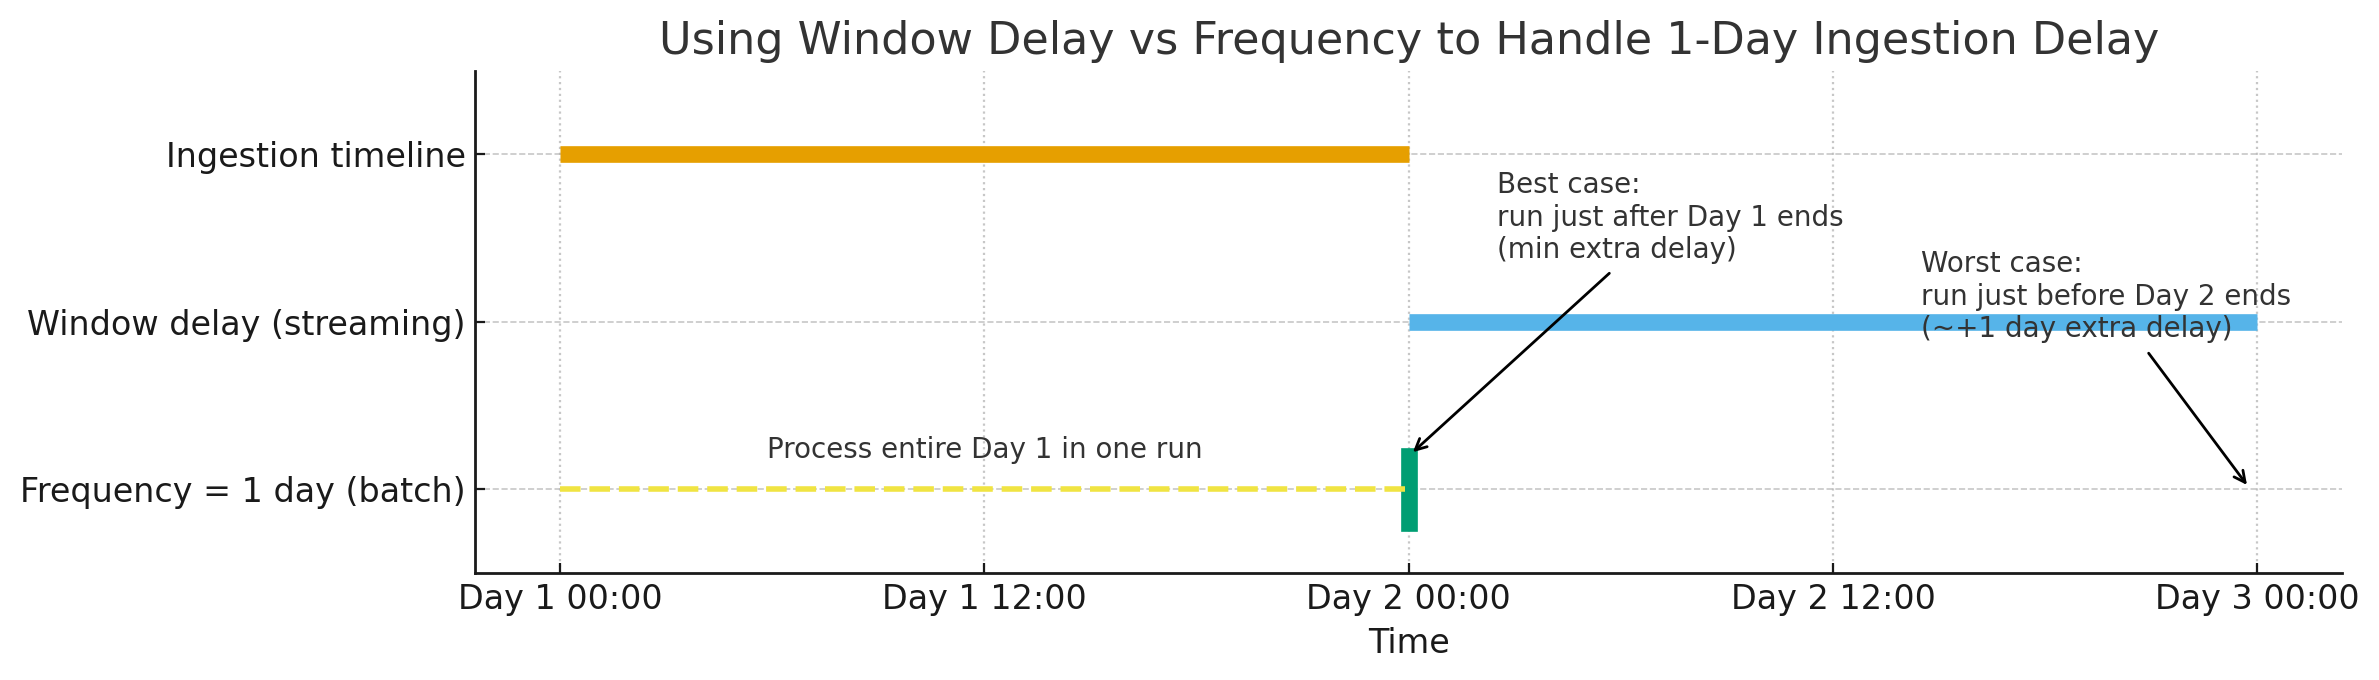
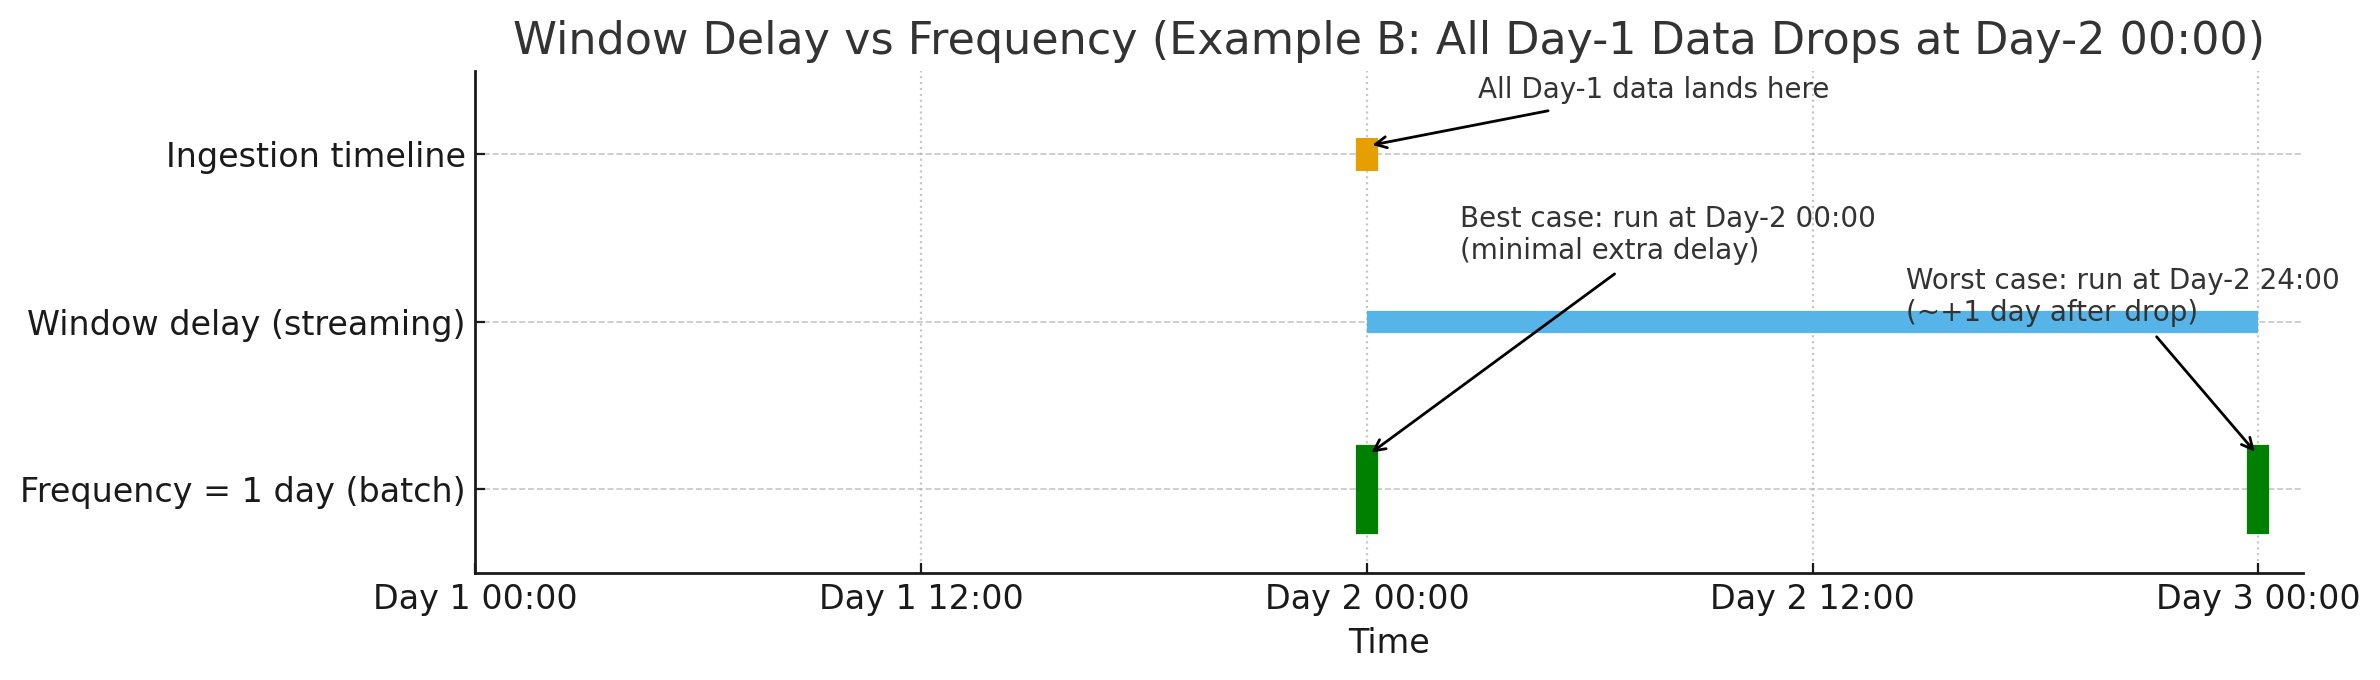
Improve content

diff --git a/_observing-your-data/ad/index.md b/_observing-your-data/ad/index.md
@@ -229,11 +229,11 @@ If you're unsure, leave this field blank---the job will use the interval value b
 
 **Common scenarios for using a larger frequency than the interval include:**
 
-1. **Batching short buckets for efficiency**: In high-frequency or high-volume log streams where ultra-fast alerting isn't necessary. For example, if your job uses a 1–2 minute data interval to capture fine-grained log trends, processing every 1–2 minutes can be resource-intensive. Setting the frequency to 5 minutes allows the detector to fetch and process multiple intervals' worth of data in one batch (for example, five 1-minute buckets at once).
+1. **Batching short buckets for efficiency**: In high-frequency or high-volume log streams where ultra-fast alerting isn’t necessary. For workloads with heavy joins or high-cardinality features, or for compliance-driven nightly rollups that require an **immutable daily anomaly ledger** for reviews/audits, running every 1–2 minutes can be wasteful. Instead, schedule the detector to run less frequently so it batches many short intervals in one pass (e.g., **6 hours** *as an example*, which would process ~**360** 1-minute buckets at once). Pick an frequency that fits your alerting latency and cost goals (e.g., 30 min, 1 hr, 3 hrs, 6 hrs, 12 hrs).
 
-   - **Benefits**: Reduced scheduling overhead and better resource utilization, especially when running many jobs or working with busy clusters
-   - **Trade-offs**: Increased detection delay: an anomaly that occurs in a 1-minute bucket might only be reported when the 5-minute query runs
-   - **Best for**: Trend analysis or offline log analytics where near-real-time alerting isn't required
+  - **Benefits**: Reduced scheduling overhead and better resource utilization, especially when running many jobs or working with busy clusters
+  - **Trade-offs**: Increased detection delay—an anomaly in a 1-minute bucket may only be reported when the batch run executes
+  - **Best for**: Cost & load control and compliance & audit, etc.
 
 2. **Aligning with infrequent or batch log ingestion**: When logs arrive irregularly or in batches (for example, once per day from S3, or IoT devices that upload in bursts). Running the detector every minute would mostly yield empty results and wasted cycles. Configure the frequency closer to the data arrival rate (for example, one day) so each search is more likely to find new data. When timestamps are irregular and low-volume (as is common with sporadic logs), interim results tend to be harmful to accuracy as our RCF model is stateful and assumes strict ascending order of timestamps. By using a less frequent schedule, you effectively let the job wait for complete data rather than repeatedly checking an empty index.
 
@@ -264,16 +264,37 @@ Sets the number of historical data points used to train the initial (cold-start)
 
 ##### Choosing between frequency and window delay
 
-Both frequency and window delay address ingestion delay but work better for different data patterns:
+Both **frequency** and **window delay** address ingestion delay but work better for different data patterns:
 
-- **Window delay**: Best for streaming data (continuous trickle)
-- **Frequency**: Best for batch data (periodic drops)
+- **Window delay**: Best for streaming data (continuous trickle).
+- **Frequency**: Best for batch data (periodic drops).
 
 **Example scenarios:**
-- **1-day delay with streaming data**: Set window delay = 1 day to process Day-1 minute buckets during Day-2 as they arrive (low per-bucket latency, continuous compute)
-- **Daily batch ingestion**: Set frequency = 1 day to process all of Day-1 in a single run (lower query/inference overhead)
 
-The following diagram illustrates the timing differences between using window delay compared to using frequency to handle a 1-day ingestion delay. The timeline shows Day-1 ingestion (top), Day-2 processing with window delay = 1 day (middle, continuous band), and a single daily run when frequency = 1 day (bottom, vertical bar). Depending on when you start the detector, a daily frequency can fire just after Day-1 ends (best case, minimal extra delay) or much later (worst case, up to ~+1 day). The job runs every day at approximately the time you first started it.
+**Example A — Data arrives every minute, but always 1 day late → use window delay.**
+- **Pattern**: Day-1’s `00:01, 00:02, …, 23:59` arrive steadily, but only on **Day-2** at the matching minutes.
+- **Config**: `interval = 1 min`, `window_delay = 1 day`, **frequency = 1 min**.
+- **Effect**:
+  - Day-2 00:01 run processes **Day-1 00:01**.
+  - Day-2 00:02 run processes **Day-1 00:02**.
+  - …
+  - Day-2 23:59 run processes **Day-1 23:59**.
+- **Why this fits**: Each minute arrives on a predictable 24-hour delay; a window delay neatly aligns processing with the intended timestamp while keeping the workload incremental.
+
+---
+
+**Example B — All of Day-1’s data lands at Day-2 00:00 → use daily frequency.**
+- **Pattern**: No data during Day-1; a single batch with **all 1,440 minutes** appears at **Day-2 00:00**.
+- **Config**: `interval = 1 min`, **`frequency = 1 day`** (batch the whole day at once).
+  *(Tip: add a small `window_delay`—e.g., 1–5 minutes—for indexing/refresh lag.)*
+- **Effect** (daily run occurs ~at the time you first started the detector):
+  - **Best case**: Start time ≈ **00:00** → the **Day-2 00:00** run processes all of **Day-1** immediately after the drop.
+  - **Worst case**: Start time ≈ **23:59** → that day’s run happens long after the drop; you wait until **Day-2 23:59** (≈ **+23h59m** after the drop).
+  - **General rule**: With a midnight drop, *extra wait after the drop = your daily start time* (time-of-day).
+- **Why this fits**: The dataset is complete at midnight; a single daily run is far more efficient than minute-by-minute reprocessing.
+
+
+The following diagram illustrates the timing differences between using window delay versus using frequency to handle a 1-day ingestion delay. The timeline shows Day-1 ingestion (top), Day-2 processing with `window_delay = 1 day` (middle, continuous band), and a single daily run when `frequency = 1 day` (bottom, vertical bar). Depending on when you start the detector, a daily frequency can fire just after Day-1 ends (best case, minimal extra delay) or much later (worst case, up to ~+1 day). The job runs every day at approximately the time you first started it.
 
 <img src="{{site.url}}{{site.baseurl}}/images/anomaly-detection/window-delay-vs-frequency.png"
      alt="Timeline showing Day-1 ingestion (top), Day-2 processing with window delay (middle), and a single daily run when frequency = 1 day (bottom)"

diff --git a/_observing-your-data/ad/managing-anomalies.md b/_observing-your-data/ad/managing-anomalies.md
@@ -167,7 +167,7 @@ Note the following key configuration in the example alert monitor:
 
 - **`"size": 1`** in the search input: Retrieves a single document so you can reference `ctx.results.0.hits.hits.0` in the notification to identify which entity (such as `host` or `service`) triggered the alert.
 
-- **`execution_end_time` range `"{{period_end}}||-2m"` → `"{{period_end}}"`**: Filters on the result creation timestamp, which reflects when the forecast was generated. This avoids delays caused by ingestion lag. Avoid filtering on `data_end_time` if your index includes late-arriving data (such as backfilled logs).
+- **`execution_end_time` range `"{{period_end}}||-2m"` → `"{{period_end}}"`**: Filter on result write time (execution_end_time) — the moment the detector finishes and indexes the result. OpenSearch is near-real-time (not immediate): indexing queuing and refresh introduce a delay before a document becomes searchable. Include a small overlap (e.g., -2m) to cover this write-to-search latency; tune it to your worst-case. Avoid data_end_time (the bucket’s logical end), which can miss results that surface later.
 
 - **`"indices": [".opendistro-anomaly-results*"]`**: Matches the default result index pattern. Update this pattern if you route results to a custom index, such as `opensearch-ad-plugin-result-abc*`.
 
@@ -175,7 +175,7 @@ Note the following key configuration in the example alert monitor:
 
 - **`"max_anomaly_grade"` aggregation**: Detects the most severe anomaly in the time window. You can use any field in the anomaly result index for aggregation. For additional fields, see the [Anomaly result mapping]({{site.url}}{{site.baseurl}}/monitoring-plugins/ad/result-mapping/).
 
-- **Monitor schedule every 2 minutes with 2-minute query window**: Evaluates results every two minutes to detect anomalies quickly. The 2-minute lookback increases resilience to timing delays. Combined with a 2-minute alert throttle, this avoids duplicate notifications for the same event.
+- **Monitor schedule every 2 minutes**: Evaluates results every two minutes to detect anomalies quickly. Combined with a 2-minute alert throttle, this avoids duplicate notifications for the same event.
 
 - **Trigger condition `max_anomaly_grade.value > 0.7 && confidence > 0.7`**: Sets appropriate thresholds that reliably indicate anomalies. Adjust these values based on your tolerance for false positives and negatives.
 
